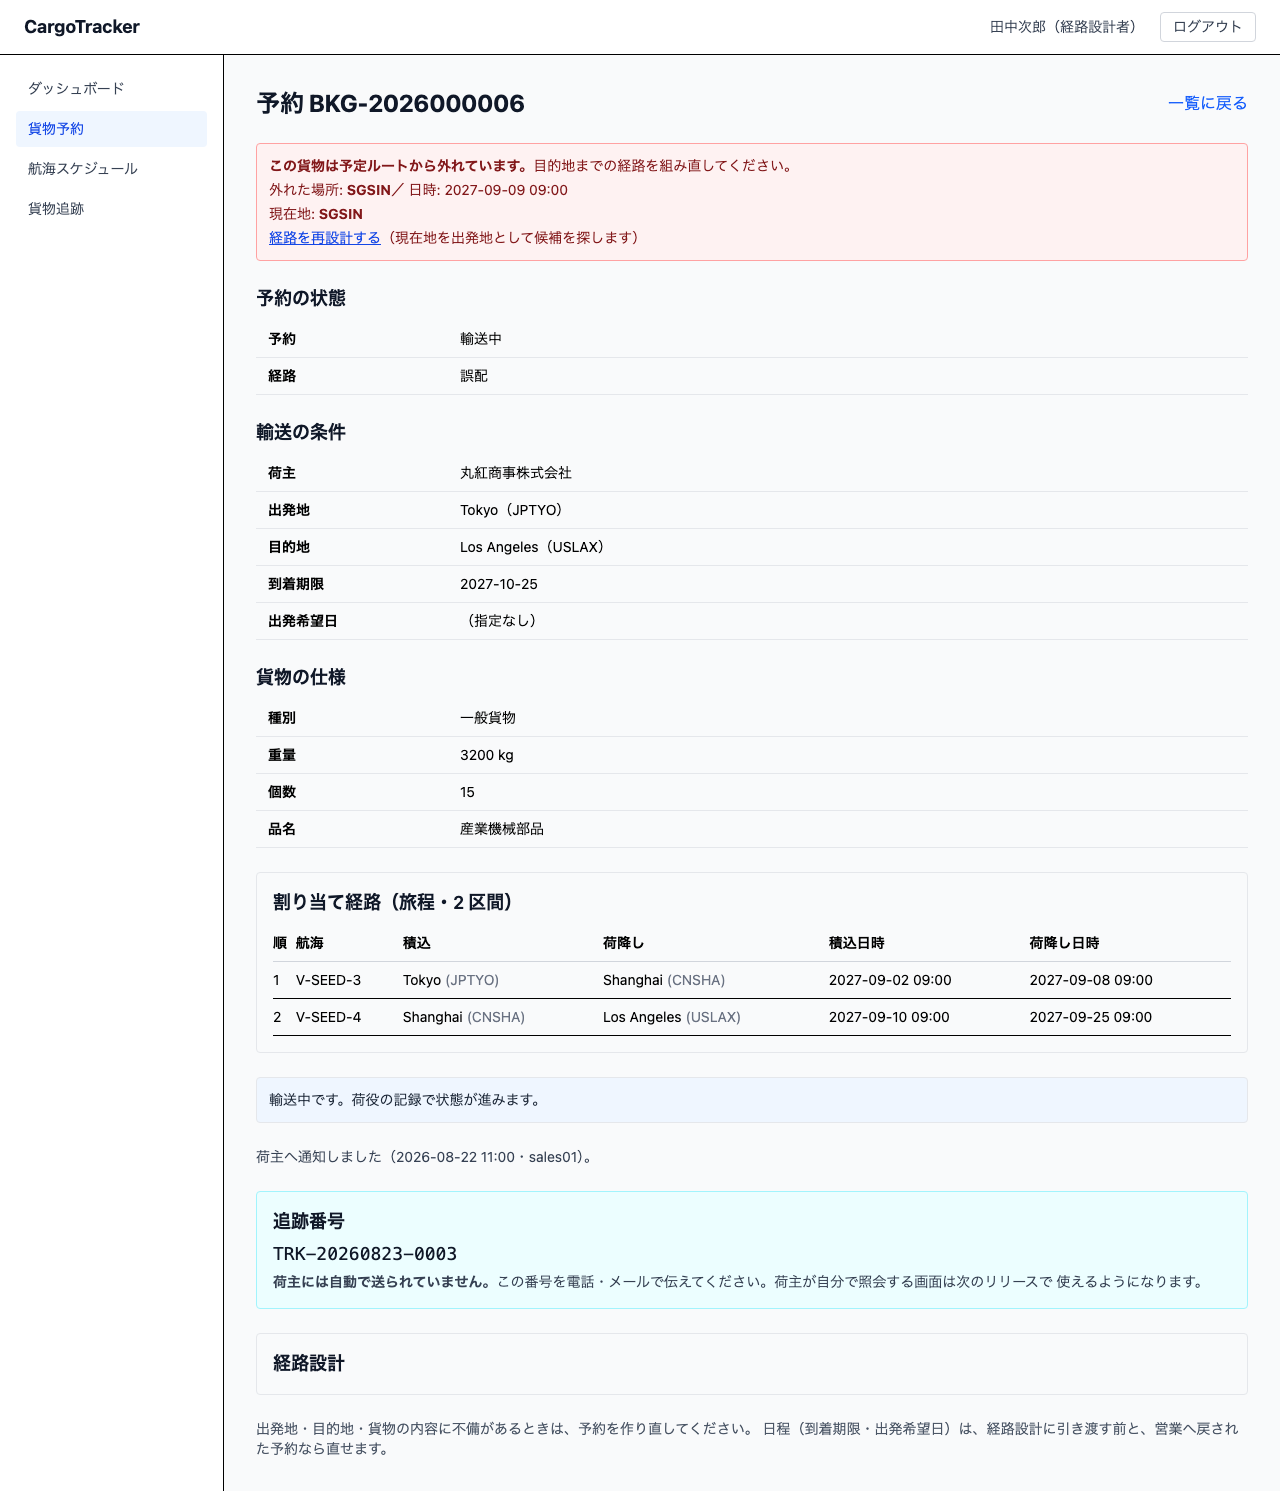
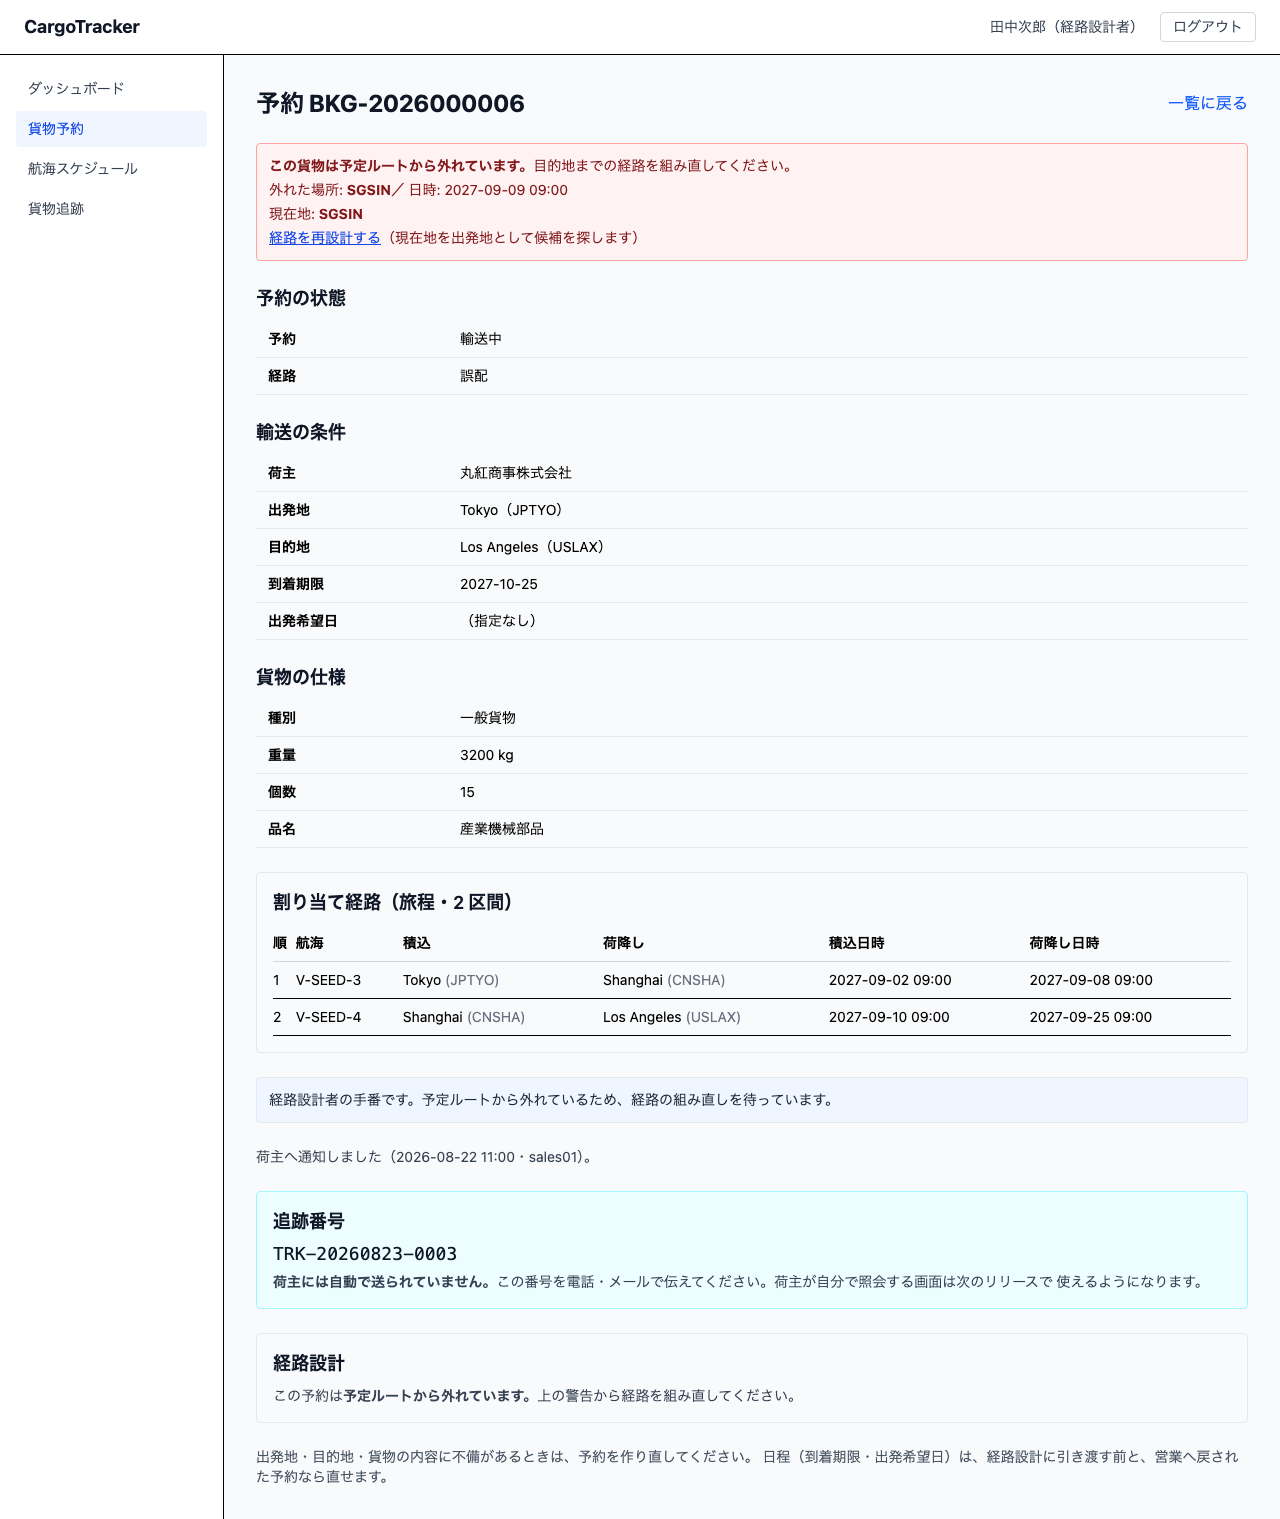
fix(booking): 経路設計の枠が、誤配のときも言葉を持つようにする
マニュアルのキャプチャを撮り直したら、経路設計のセクションが
見出しだけの空の枠になっていた。IT10 で足した MISROUTED を
この出し分けが扱っていない。

ADR-026 決定 2 が「列挙に値を足したら、既存の述語すべてがその値を
明示的に扱う」と決めているのは、まさにこの形を防ぐためだった。
決定を書いても、扱っていない場所は自分では名乗り出ない。

経路の状況すべてに言葉があることを検査で固定した。名簿は書き写さず
ROUTING_STATUS_LABELS から回すので、値が増えたら自動的にその値も見る。

diff --git a/apps/frontend/src/features/booking/components/__tests__/route-design-section.test.tsx b/apps/frontend/src/features/booking/components/__tests__/route-design-section.test.tsx
@@ -1,0 +1,62 @@
+import { screen } from '@testing-library/react'
+import { describe, expect, it } from 'vitest'
+import { renderWithProviders } from '../../../../test/render'
+import { ROUTING_STATUS_LABELS, type Booking } from '../../types'
+import { RouteDesignSection } from '../route-design-section'
+
+/**
+ * 経路設計の枠（US09・[ADR-020]・[ADR-026] 決定 2）。
+ *
+ * <p><strong>経路の状況すべてに言葉がある。</strong>値を足したのに扱わないと、
+ * 見出しだけの空の枠が出て「何か出るはずのものが出ていない」と読まれる
+ * ——IT10 で `MISROUTED` を足したとき実際にそうなり、マニュアルのキャプチャを
+ * 撮って初めて気づいた。
+ *
+ * <p><strong>名簿は書き写さない。</strong>`ROUTING_STATUS_LABELS`（画面が持つ経路の
+ * 状況の一覧）から回す。値が増えたらこの検査が自動的にその値も見る。
+ */
+describe('経路設計の枠', () => {
+  const BOOKING = {
+    bookingId: 'BKG-2026000001',
+    routingStatus: 'NOT_ROUTED',
+    availableActions: [],
+  } as unknown as Booking
+
+  const issueTracking = {
+    mutate: () => undefined,
+    isPending: false,
+  } as never
+
+  it.each(Object.keys(ROUTING_STATUS_LABELS))(
+    '経路の状況が %s でも、枠に言葉がある',
+    (routingStatus) => {
+      renderWithProviders(
+        <RouteDesignSection
+          booking={{ ...BOOKING, routingStatus } as Booking}
+          isRoutingPlanner
+          issueTracking={issueTracking}
+        />,
+      )
+
+      const heading = screen.getByRole('heading', { name: '経路設計' })
+      const body = heading.parentElement!.textContent?.replace('経路設計', '').trim()
+      expect(
+        body,
+        `経路の状況 ${routingStatus} に言葉が無い。見出しだけの空の枠が出る`,
+      ).not.toBe('')
+    },
+  )
+
+  /** 経路設計者でなければ枠ごと出さない。**手番が違う**。 */
+  it('経路設計者でなければ、枠を出さない', () => {
+    renderWithProviders(
+      <RouteDesignSection
+        booking={BOOKING}
+        isRoutingPlanner={false}
+        issueTracking={issueTracking}
+      />,
+    )
+
+    expect(screen.queryByRole('heading', { name: '経路設計' })).not.toBeInTheDocument()
+  })
+})

diff --git a/apps/frontend/src/pages/__tests__/booking-detail-page.test.tsx b/apps/frontend/src/pages/__tests__/booking-detail-page.test.tsx
@@ -809,6 +809,26 @@ describe('予約の詳細（US06）', () => {
         .toHaveTextContent('経路設計者が組み直します')
     })
 
+    /**
+     * <strong>言葉が無いなら枠ごと出さない</strong>（IT10 のキャプチャで 2 度目）。
+     *
+     * <p>経路設計のセクションは `routingStatus` で言葉を出し分けるが、IT10 で足した
+     * `MISROUTED` を扱っていなかった。**見出しだけの空の枠**が出て、「何か出るはずの
+     * ものが出ていない」と読まれる。[ADR-026] 決定 2 が「列挙に値を足したら、既存の
+     * 述語すべてがその値を明示的に扱う」と決めているのは、この形を防ぐためである。
+     */
+    it('経路設計の枠が、誤配のときも言葉を持つ', async () => {
+      renderMisrouted(['ROLE_ROUTING'])
+
+      const heading = await screen.findByRole('heading', { name: '経路設計' })
+      const section = heading.parentElement!
+      expect(
+        section.textContent?.replace('経路設計', '').trim(),
+        '見出しだけの空の枠が出ている',
+      ).not.toBe('')
+      expect(section).toHaveTextContent(/予定ルートから外れ/)
+    })
+
     it('誤配していない予約には、バナーを出さない', async () => {
       renderPage(['ROLE_ROUTING'])
 

diff --git a/apps/frontend/src/features/booking/components/route-design-section.tsx b/apps/frontend/src/features/booking/components/route-design-section.tsx
@@ -89,6 +89,18 @@ export function RouteDesignSection({
             この予約はまだ経路設計に引き渡されていません。
           </p>
         )}
+        {/* **誤配も言葉を持つ**（US28・[ADR-026] 決定 2）。値を足したのに扱わないと、
+            見出しだけの空の枠が出て「何か出るはずのものが出ていない」と読まれる。
+            組み直しの入口は上の警告に出す——同じ操作を 2 か所に置くと、どちらを
+            押すべきか迷う */}
+        {booking.routingStatus === "MISROUTED" && (
+          <p className="text-sm text-gray-700">
+            この予約は
+            <strong>予定ルートから外れています。</strong>
+            {""}
+            上の警告から経路を組み直してください。
+          </p>
+        )}
 
         {/* 追跡番号の発行（US14）。確定した予約にだけ出す。
             二重に発行すると、荷主に伝えた番号で追えなくなる */}

diff --git a/docs/index.md b/docs/index.md
@@ -18,10 +18,10 @@
 | [戦略](./strategy/index.md) | ビジネスアーキテクチャ、インセプションデッキの整理 | 2 件作成済み |
 | [要件](./requirements/index.md) | RDRA 2.0 とユースケース整理の入口 | 4 件作成済み |
 | [設計](./design/index.md) | アーキテクチャ、モデル、テスト、非機能の整理 | アーキテクチャ 3 件作成済み |
-| [開発](./development/index.md) | リリース計画、イテレーション計画、進捗管理、リリース完了報告書 | IT9 まで完了（81 SP / 105 SP）・Release 1.0 報告書作成済み・**IT10 計画済み** |
+| [開発](./development/index.md) | リリース計画、イテレーション計画、進捗管理、リリース完了報告書 | **IT10 まで完了（88 SP / 105 SP）**・Release 1.0 報告書作成済み・**Release 1.1 完了** |
 | [運用](./operation/index.md) | 環境構築、デプロイ、運用手順の整理 | `index.md` を整備済み |
-| [レビュー](./review/index.md) | 分析・開発レビュー結果の記録 | 11 件作成済み |
-| [ユーザーマニュアル](./manual/index.md) | 業務担当者向けの操作手引き（画面キャプチャは自動生成） | 10 章作成済み |
+| [レビュー](./review/index.md) | 分析・開発レビュー結果の記録 | 12 件作成済み |
+| [ユーザーマニュアル](./manual/index.md) | 業務担当者向けの操作手引き（画面キャプチャは自動生成） | 12 章作成済み（00〜11） |
 | [ADR](./adr/index.md) | Architecture Decision Records の管理 | 26 件作成済み |
 | [記事](./article/index.md) | モノリスアーキテクチャ実装比較（13 章）・関数型ドメインモデリング（11 章）・実践 AI 駆動開発（15 章）・XP によるドメイン駆動設計の実践（14 章） | 53 件作成済み |
 | [参照元ソース](./article/source/README.md) | 記事が引用する 10 言語の実装コードと java-2 の実装・一次資料 | 3,849 ファイル配置済み |

diff --git a/docs/development/index.md b/docs/development/index.md
@@ -24,7 +24,7 @@
 | IT7 | [計画](iteration_plan-7.md) | [ふりかえり](retrospective-7.md) | [完了報告書](iteration_report-7.md) | 完了 |
 | IT8 | [計画](iteration_plan-8.md) | [ふりかえり](retrospective-8.md) | [報告書](iteration_report-8.md) | 完了 |
 | IT9 | [計画](iteration_plan-9.md) | [ふりかえり](retrospective-9.md) | [完了報告書](iteration_report-9.md) | 完了 |
-| IT10 | [計画](iteration_plan-10.md) | - | - | 計画済み |
+| IT10 | [計画](iteration_plan-10.md) | [ふりかえり](retrospective-10.md) | [完了報告書](iteration_report-10.md) | 完了 |
 
 ### 進捗サマリー
 
@@ -39,7 +39,7 @@
 | IT7 | 10 | 10 | 100% |
 | IT8 | 9 | 9 | 100% |
 | IT9 | 10 | 10 | 100% |
-| IT10 | 7 | - | - |
+| IT10 | 7 | 7 | 100% |
 | **累計** | **105**（計画・33US） | **81** | **77.1%** |
 
 ### フェーズ進捗
